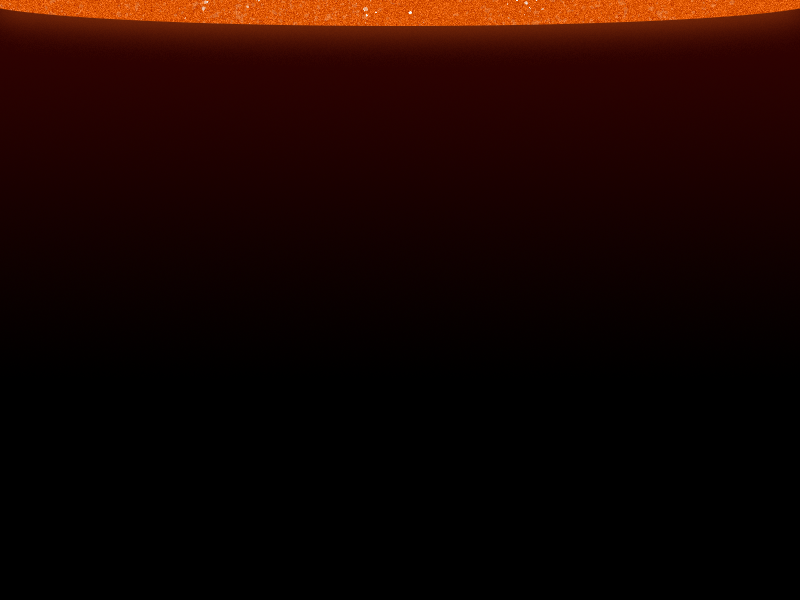
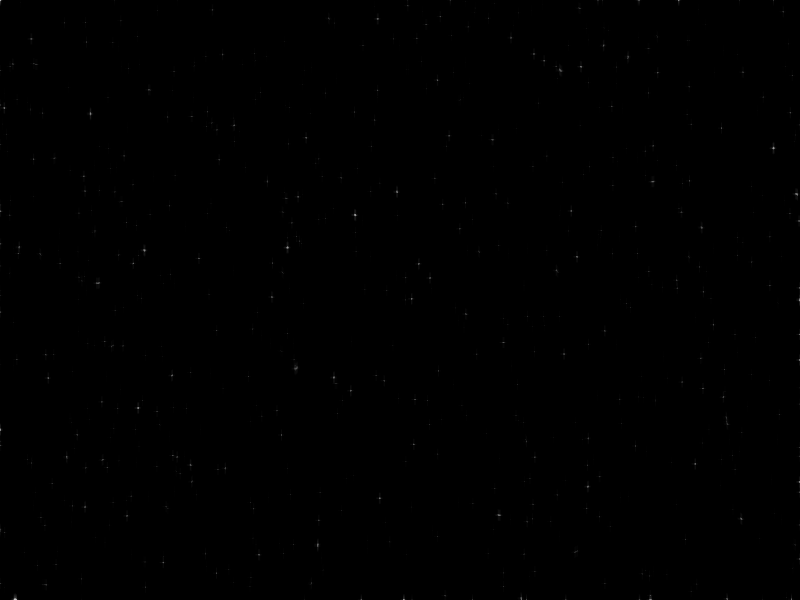
Split background into layers
Split the background into 2 layers. Updated README

diff --git a/index.js b/index.js
@@ -39,8 +39,9 @@ function updateIrradiance() {
 }
 
 function preload() {
-    this.load.image('sky', 'assets/sky.png');
+//    this.load.image('sky', 'assets/sky.png');
     this.load.image('space', 'assets/space.png');
+    this.load.image('sun', 'assets/sun.png');
     this.load.image('ground', 'assets/platform.png');
     this.load.image('star', 'assets/star.png');
     this.load.image('fire', 'assets/fire.png');
@@ -49,7 +50,7 @@ function preload() {
 
 function create() {
     //  A simple background for our game
-    this.add.image(400, 300, 'space');
+    this.add.image(config.height/2, config.width/2, 'space');
 
     //  The platforms group contains the ground and the 2 ledges we can jump on
     platforms = this.physics.add.staticGroup();
@@ -123,6 +124,8 @@ function create() {
     scoreText = this.add.text(16, 16, 'score: 0', { fontSize: '32px', fill: '#000' });
     scoreText.setStyle({ color: '#ffffff' });
 
+    
+
     //  Collide the player and the stars with the platforms
     this.physics.add.collider(player, platforms);
     this.physics.add.collider(stars, platforms);
@@ -131,6 +134,11 @@ function create() {
     //  Checks to see if the player overlaps with any of the stars, if he does call the collectStar function
     this.physics.add.overlap(player, stars, collectStar, null, this);
     this.physics.add.collider(player, fire, hitFire, null, this);
+
+    //  A simple foreground for our game
+    this.add.image(config.height/2+100, config.width/2-100, 'sun');
+
+    
 }
 
 

diff --git a/README.md b/README.md
@@ -6,3 +6,5 @@ Project for NASA International Space Apps Challenge
 Creative Data Display with the Parker Solar Probe
 
 **Link:** https://2022.spaceappschallenge.org/challenges/2022-challenges/creative-data-display/details
+
+This is an HTML5 game we designed for our challenge to creatively display data from the Parker Solar Probe. It uses the Phaser open source framework to make a Canvas and WebGL powered game that will run in a browser. 
